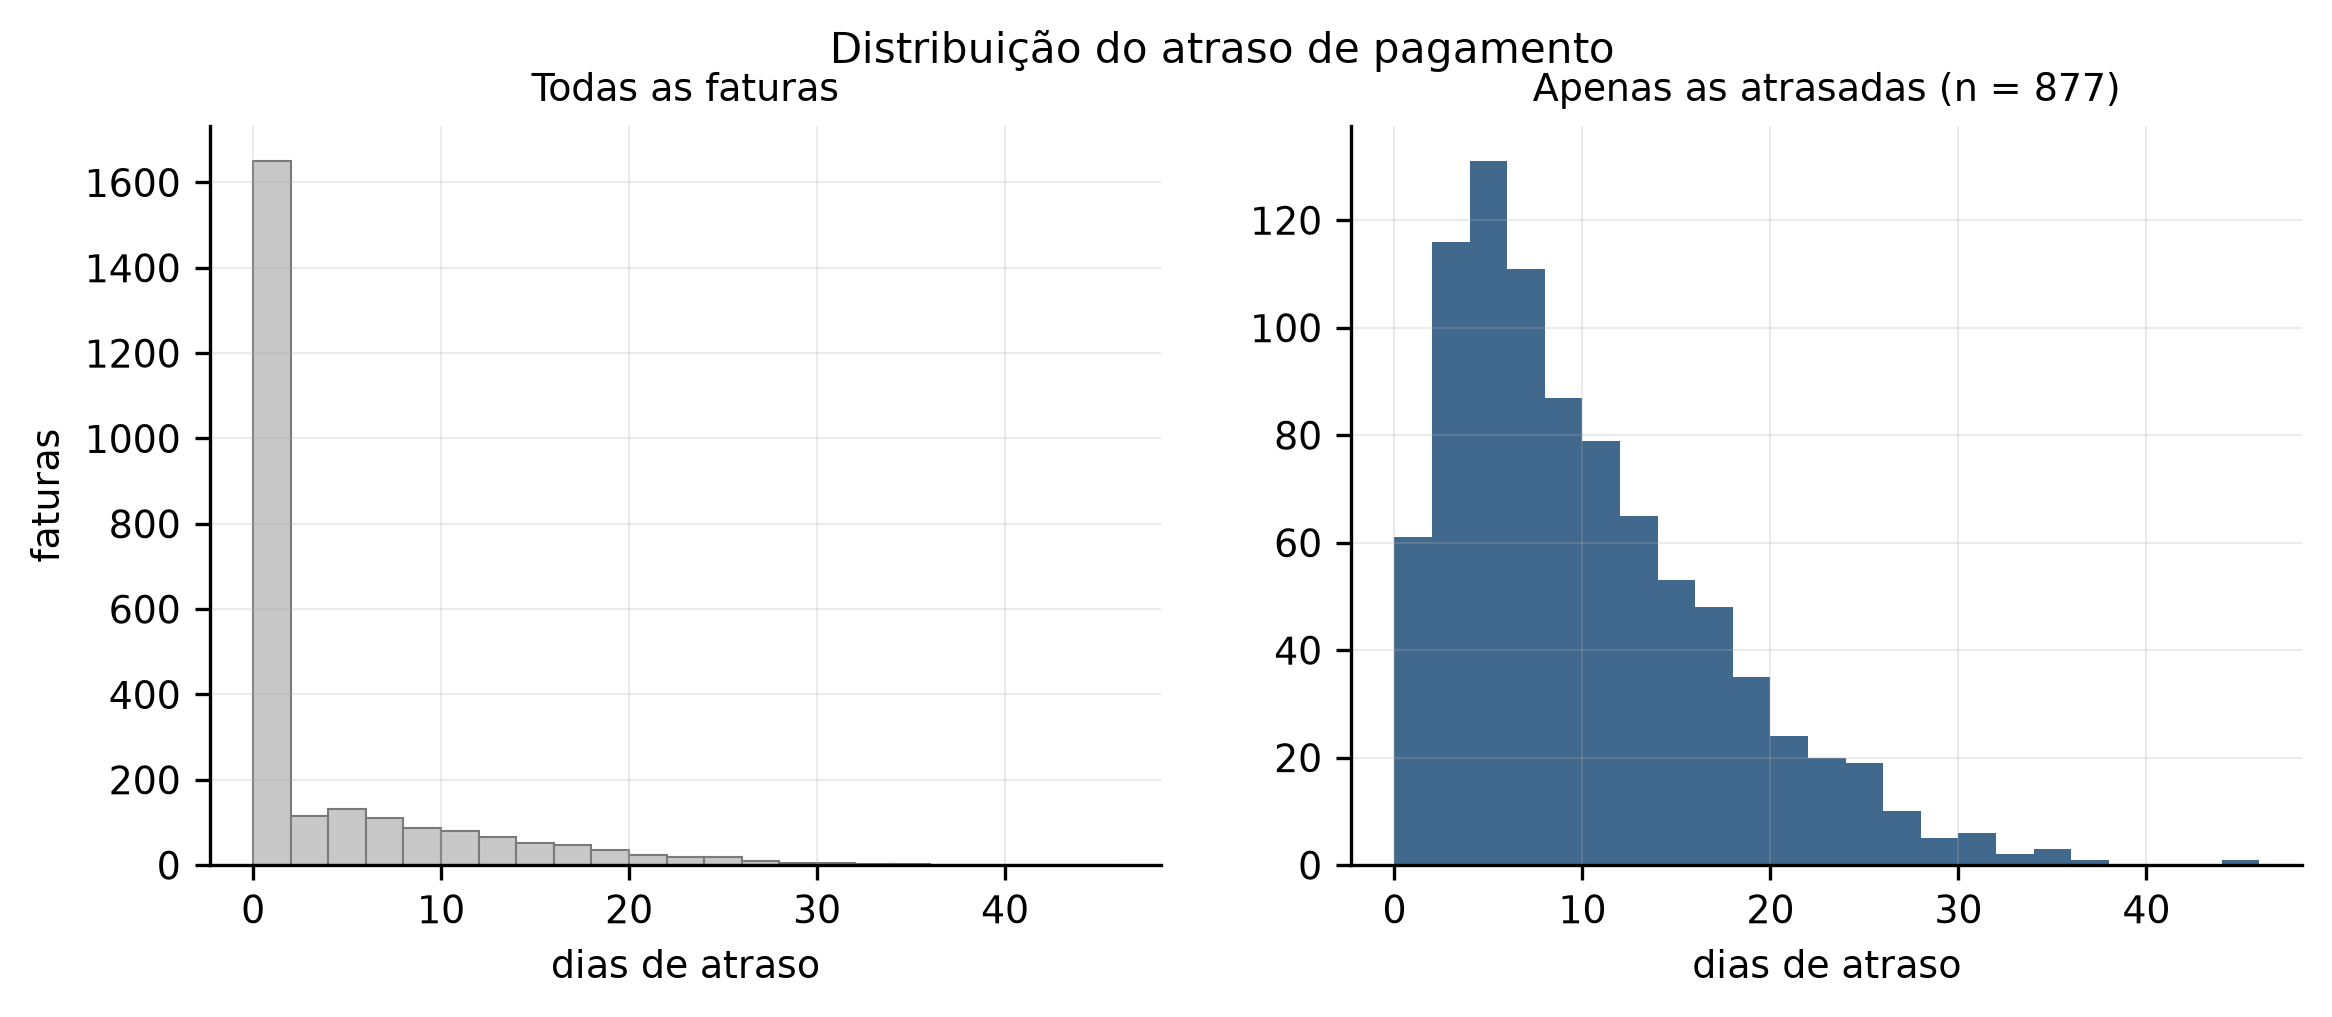
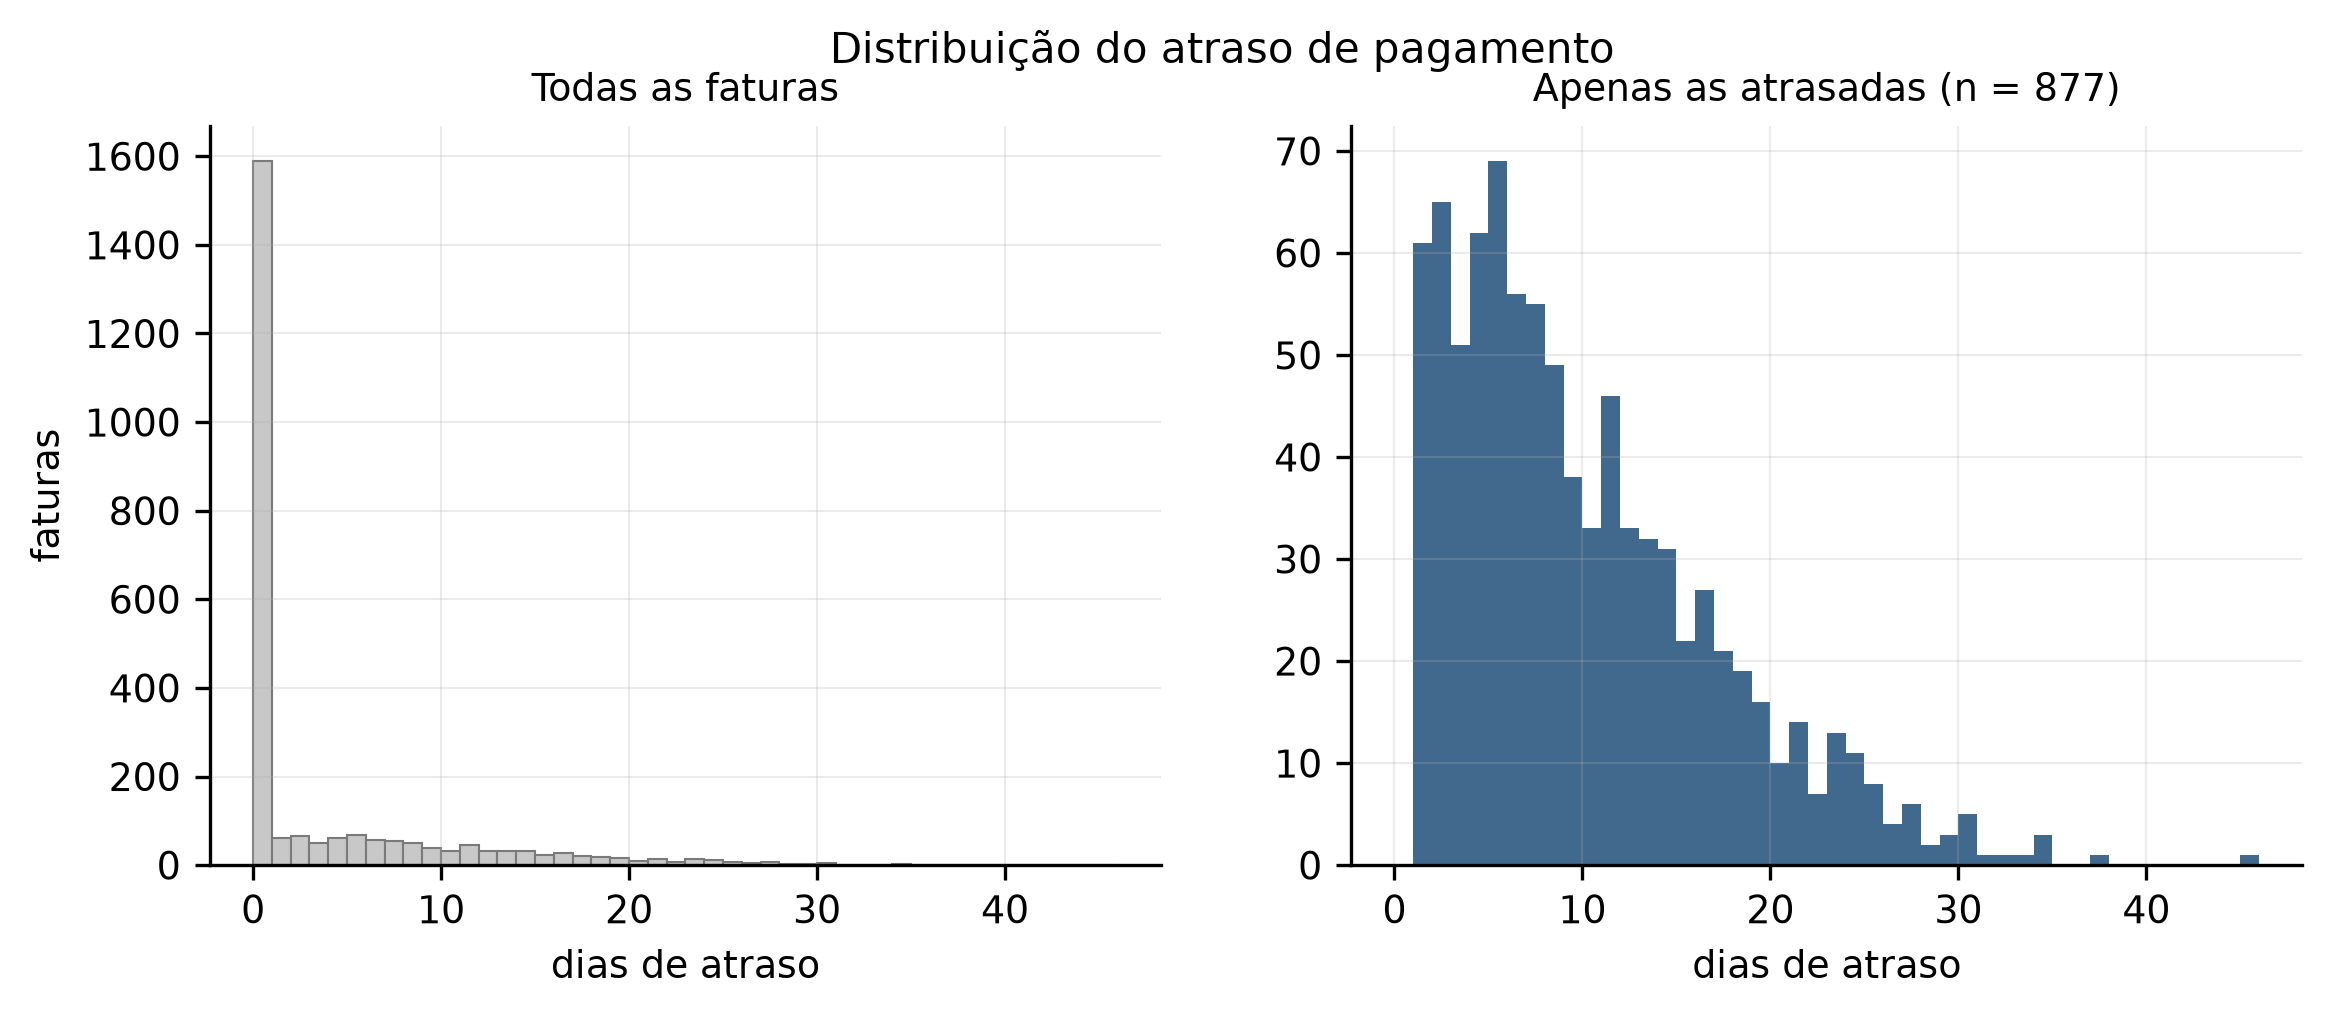
fix: images and comments

diff --git a/experiments/figuras.py b/experiments/figuras.py
@@ -1,4 +1,4 @@
-"""Figuras do trabalho: distribuicao do atraso e heterogeneidade entre clientes no benchmark.
+"""Figuras do trabalho, com a distribuicao do atraso e a heterogeneidade entre clientes no benchmark.
 
 Escala de cinza com um acento, legivel impressa em preto e branco.
 """
@@ -51,12 +51,12 @@ def main() -> None:
     df = load_dataset()
 
     fig, (a, b) = plt.subplots(1, 2, figsize=(9, 3.2))
-    a.hist(df["y_days"], bins=range(0, 48, 2), color=CLARO, edgecolor=CINZA, linewidth=0.5)
+    a.hist(df["y_days"], bins=range(0, 47), color=CLARO, edgecolor=CINZA, linewidth=0.5)
     a.set_xlabel("dias de atraso")
     a.set_ylabel("faturas")
     a.set_title("Todas as faturas", fontsize=9)
     atrasadas = df.loc[df["y_late"] == 1, "y_days"]
-    b.hist(atrasadas, bins=range(0, 48, 2), color=ACENTO, alpha=0.85)
+    b.hist(atrasadas, bins=range(0, 47), color=ACENTO, alpha=0.85)
     b.set_xlabel("dias de atraso")
     b.set_title(f"Apenas as atrasadas (n = {len(atrasadas)})", fontsize=9)
     fig.suptitle("Distribuição do atraso de pagamento", fontsize=10)
@@ -69,7 +69,7 @@ def main() -> None:
                label=f"média geral {df['y_late'].mean() * 100:.1f}%".replace(".", ","))
     ax.set_xlabel("clientes, ordenados pela taxa de atraso")
     ax.set_ylabel("taxa de atraso")
-    ax.yaxis.set_major_formatter(FuncFormatter(lambda valor, _: f"{valor:.1f}".replace(".", ",")))
+    ax.yaxis.set_major_formatter(FuncFormatter(lambda valor, _: f"{valor * 100:.0f}%"))
     ax.set_title("Heterogeneidade da taxa de atraso entre clientes", fontsize=10)
     ax.legend(frameon=False)
     salvar(fig, "fig02_heterogeneidade_clientes")

diff --git a/arml/data_kaggle_ar.py b/arml/data_kaggle_ar.py
@@ -51,7 +51,7 @@ def load_dataset(path=ARQUIVO) -> pd.DataFrame:
     out = out.dropna(subset=["InvoiceDate", "DueDate", "SettledDate", "InvoiceAmount"]).copy()
     out["prazo_dias"] = (out["DueDate"] - out["InvoiceDate"]).dt.days
     # Prazo negativo indica lancamento retroativo; acima de um ano, erro de
-    # digitacao. Ambos sao descartados, como nos demais conjuntos.
+    # digitacao. Ambos sao descartados, como no conjunto transacional.
     out = out[(out["prazo_dias"] >= 0) & (out["prazo_dias"] <= 365)].copy()
 
     atraso = (out["SettledDate"] - out["DueDate"]).dt.days

diff --git a/arml/data.py b/arml/data.py
@@ -50,7 +50,7 @@ def load_raw(path=AR_CSV) -> pd.DataFrame:
 def build_targets(df: pd.DataFrame, threshold: int = LATE_THRESHOLD_DAYS) -> pd.DataFrame:
     """Deriva o rotulo e as grandezas de atraso usadas nos atributos e na caracterizacao.
 
-    ``y_late``    binaria, o rotulo do trabalho: liquidacao apos o vencimento
+    ``y_late``    binaria, o rotulo do trabalho, igual a 1 quando a liquidacao ocorre apos o vencimento
     ``y_days``    contagem de dias de atraso, zero quando em dia
     ``y_settle``  dias entre emissao e liquidacao, usado no historico do cliente
     """

diff --git a/arml/metrics.py b/arml/metrics.py
@@ -102,7 +102,7 @@ def paired_bootstrap_test(
         )
         diferencas[i] = fn(y_true[sel], score_a[sel]) - fn(y_true[sel], score_b[sel])
 
-    # Valor-p bilateral: proporcao de reamostras cuja diferenca troca de sinal
+    # Valor-p bilateral, dado pela proporcao de reamostras cuja diferenca troca de sinal
     # em relacao a diferenca observada, duplicada para cobrir as duas caudas.
     p = 2 * min(float(np.mean(diferencas <= 0)), float(np.mean(diferencas >= 0)))
     return {

diff --git a/experiments/comparacao.py b/experiments/comparacao.py
@@ -6,7 +6,7 @@ na data do corte (`arml.splits.maturar`).
 
 Para cada conjunto, os tres comparadores do texto (regra simples, regressao
 logistica e XGBoost) sao avaliados com os mesmos atributos, e cada par recebe dois
-testes: bootstrap pareado da precisao media e DeLong da ROC-AUC. A correcao de
+testes, o bootstrap pareado da precisao media e o DeLong da ROC-AUC. A correcao de
 Holm e aplicada separadamente a cada metrica, sobre as tres comparacoes de cada
 conjunto.
 
